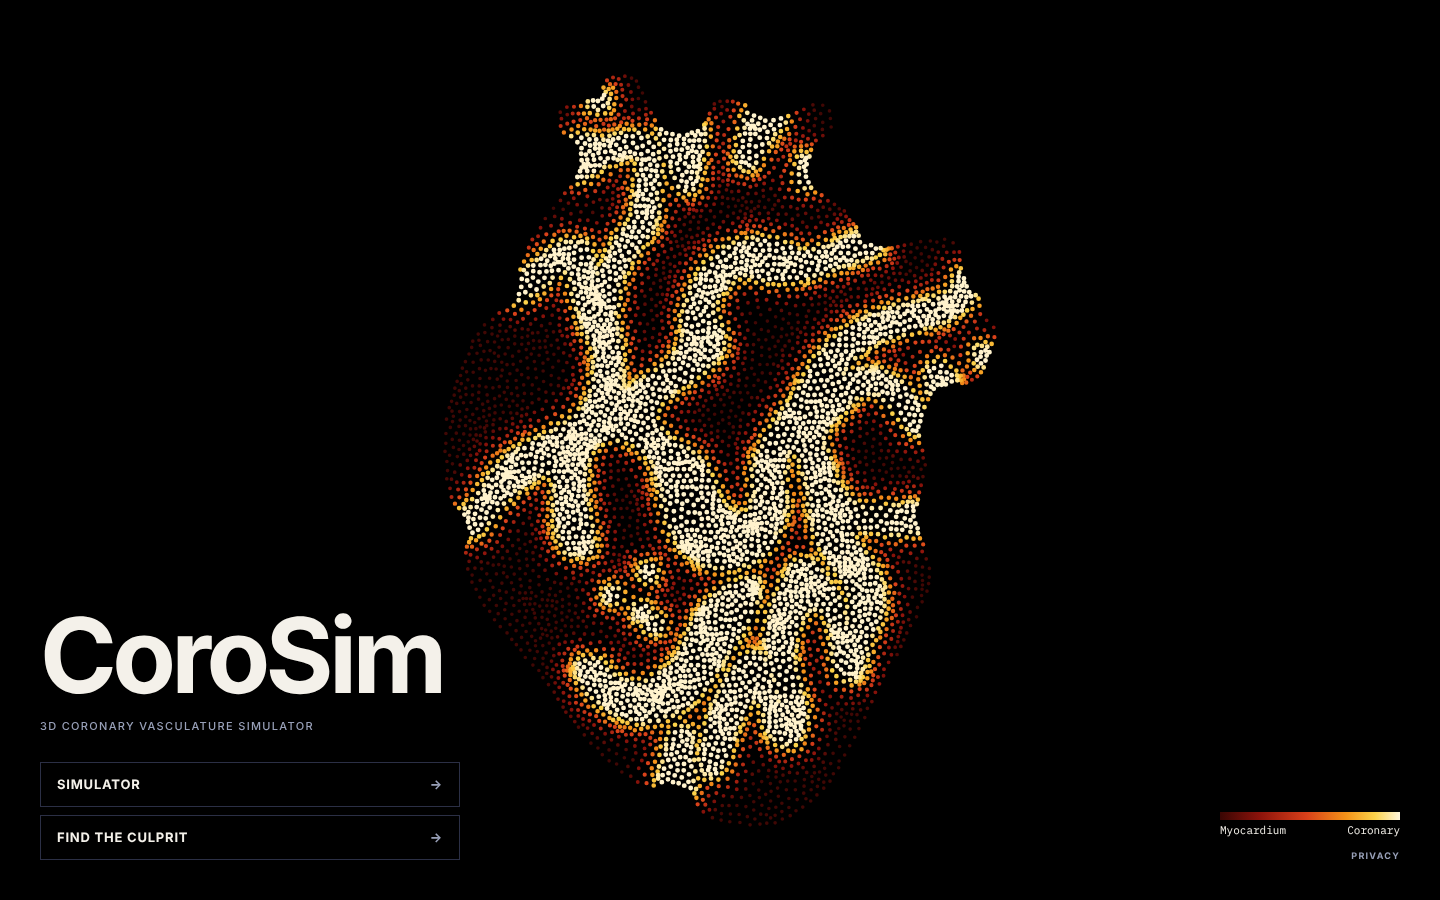
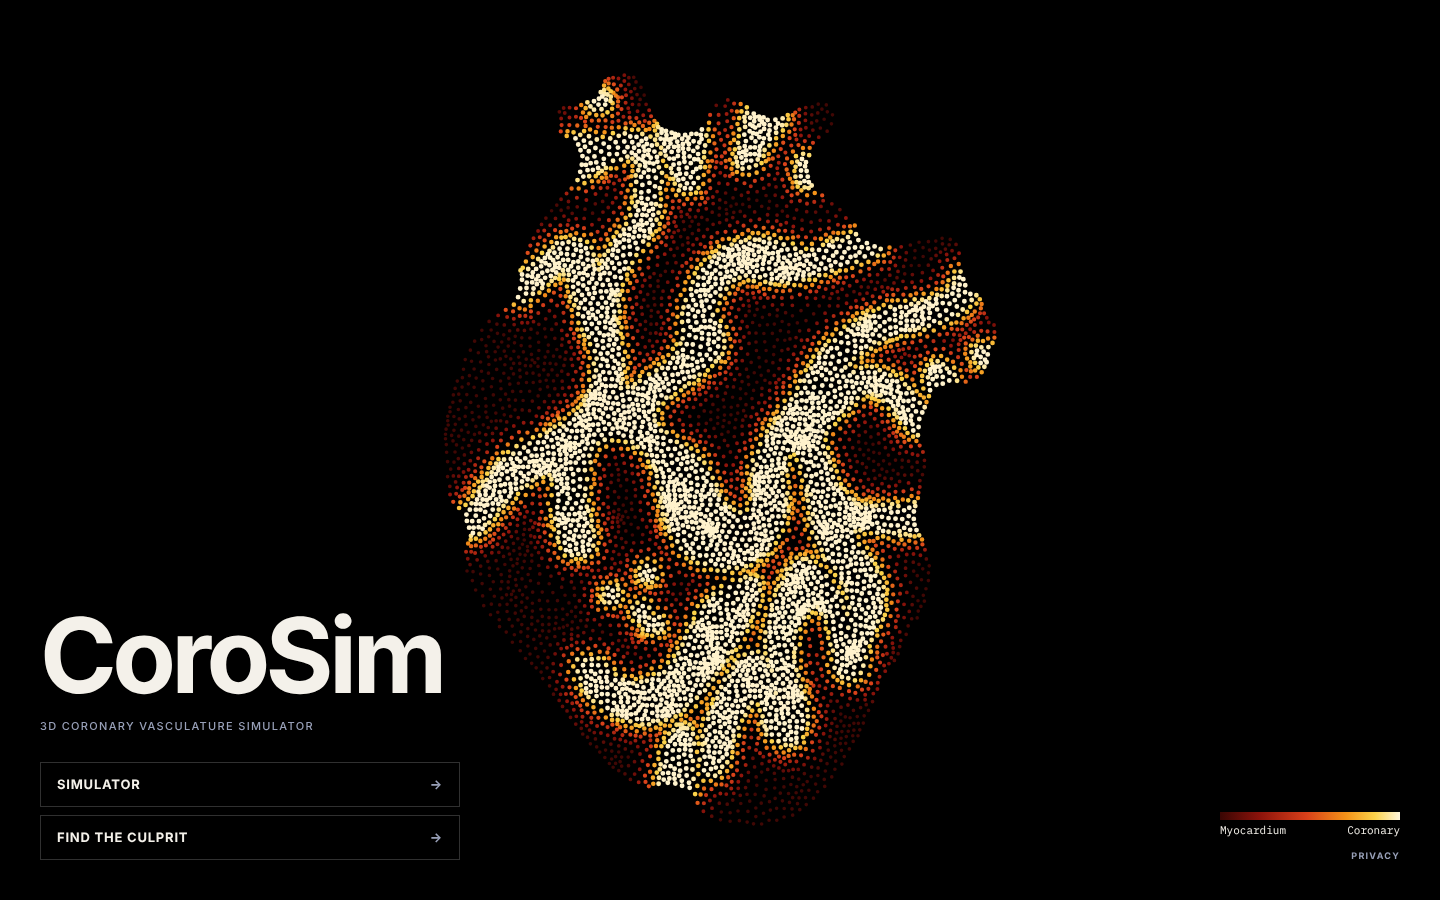
Sim and game share the homepage's look
One source of truth: the homepage's black ground and thermal ramp become the
shared tokens in style.css (dark --bg pure black, neutral --rule hairlines),
and a .on-black scope keeps that set in both themes for the homepage, the 3D
viewport and the game's front door. home.css inherits instead of overriding.
stipple.ts exports RAMP and RAMP_STOPS, so app.ts colors velocity and wall
shear stress with the homepage's ramp (in place of magma) and the legend uses
the same stops.

The accent comes from the ramp too: #d23d19, the ramp at 0.46, just under its
#d8401a stop, which reads 4.50:1 against white and misses AA for 12px bold by
a hair; #d23d19 gives 4.75:1. Sliders follow the accent.

The masthead is set like the homepage (64px title at -0.045em, the descriptor
under it in the uppercase muted style, the version switch as the homepage's
doors), the viewport is a flat black stage in both themes, and the game's
front door shows the stippled heart, settled once, behind a dark-glass card.

The two pages now import stipple.ts, so each is built on its own (vite build,
then vite build --mode home) to keep one script per page for
scripts/prepare-publish.mjs.

Screenshots of /, /sim/ (also in velocity mode) and /game/ (gate and case)
at desktop and phone width, dark and light, in docs/screenshots/.

Claude-Session: https://claude.ai/code/session_014YjVf19juRpyELeCx8Ds4A

Changed region(s): [[0.3125, 0.0622, 0.6875, 0.9333]]

diff --git a/src/style.css b/src/style.css
@@ -1,19 +1,21 @@
 /* Layout: an instrument console. The 3D heart and the 12-lead are the two working displays on the left;
    readouts and controls sit in a right-hand rail, monitor first. Scan-room black and bone, one hot-spot yellow,
    red and blue only where physiology goes wrong. Off-White structure: Helvetica Bold, quoted uppercase labels,
-   square hairline frames. The ECG is drawn on real paper in both themes. Dark is the default. */
-:root {
-  --bg: #05060a;          /* room */
+   square hairline frames. The ECG is drawn on real paper in both themes. Dark is the default.
+   One look across the site: the homepage's black ground and thermal ramp (RAMP in stipple.ts) are these tokens. The
+   dark set below is also the black stage: anything marked .on-black (the homepage, the 3D viewport, the game's front
+   door) keeps it in both themes, as the ECG keeps its paper. */
+:root, .on-black {
+  --bg: #000000;          /* room: pure black, the homepage's ground */
   --panel: #0b0d14;       /* console surfaces */
-  --stage: #000000;       /* behind the 3D heart */
-  --stage-2: #17181d;
+  --stage: #000000;       /* behind the 3D heart, in both themes */
   --ink: #f4f1ea;
   --muted: #98a0b8;
-  --rule: #2b2f45;
-  --rule-light: #1a1d2c;
-  --accent: #b8372e;      /* muted brick red: fills only, always with --accent-ink */
+  --rule: #303030;        /* neutral hairline on black */
+  --rule-light: #1c1c1c;
+  --accent: #d23d19;      /* the thermal ramp at 0.46, just under its #d8401a stop: fills only, always with --accent-ink (4.75:1) */
   --accent-ink: #ffffff;
-  --range: #d4574d;
+  --range: var(--accent);
   --link: #f4f1ea;
   --ok: #c9c6bd;
   --warn: #e0a447;
@@ -26,20 +28,22 @@
 }
 @media (prefers-color-scheme: light) {
   :root:not([data-theme="dark"]) {
-    --bg: #eeece6; --panel: #f7f5f0; --stage: #d9d6ce; --stage-2: #e6e4de;
+    --bg: #eeece6; --panel: #f7f5f0;
     --ink: #05060a; --muted: #5a5d6e; --rule: #05060a; --rule-light: #c4c1b9;
-    --range: #05060a; --link: #05060a;
+    --link: #05060a;
     --ok: #3a3a36; --warn: #8a5a00; --bad: #d1121b; --down: #1b3fd8; --bar-track: #dbd8d0;
     color-scheme: light;
   }
 }
 :root[data-theme="light"] {
-  --bg: #eeece6; --panel: #f7f5f0; --stage: #d9d6ce; --stage-2: #e6e4de;
+  --bg: #eeece6; --panel: #f7f5f0;
   --ink: #05060a; --muted: #5a5d6e; --rule: #05060a; --rule-light: #c4c1b9;
-  --range: #05060a; --link: #05060a;
+  --link: #05060a;
   --ok: #3a3a36; --warn: #8a5a00; --bad: #d1121b; --down: #1b3fd8; --bar-track: #dbd8d0;
   color-scheme: light;
 }
+
+.on-black { color: var(--ink); } /* the inherited text color was resolved against the theme's set */
 
 * { box-sizing: border-box; }
 html { background: var(--bg); }
@@ -53,15 +57,17 @@ body {
   font: 15px/1.5 var(--font-ui);
 }
 
-/* Masthead: the title, and the switch between the two versions */
+/* Masthead: the title, and the switch between the two versions, as the homepage sets them */
 .masthead { display: flex; flex-wrap: wrap; justify-content: space-between; align-items: flex-end; gap: 12px 24px; padding-block: 28px 18px; }
 .masthead { position: relative; border-bottom: 1px solid var(--rule); }
-.modes { display: flex; gap: 6px; }
-.modes a { padding: 8px 11px; font: 700 12px/1 var(--font-ui); letter-spacing: 0.04em; text-transform: uppercase; text-decoration: none; color: var(--ink); background: var(--panel); border: 1px solid var(--rule); }
-.modes a:hover { background: var(--ink); border-color: var(--ink); color: var(--bg); }
-.modes a.on, .modes a.on:hover { background: var(--accent); border-color: var(--accent); color: var(--accent-ink); }
+/* The switch as the homepage's doors: uppercase, a hairline square frame, a trailing arrow, inverted on hover */
+.modes { display: flex; flex-wrap: wrap; gap: 6px; }
+.modes a { display: flex; justify-content: space-between; align-items: center; gap: 12px; padding: 11px 13px; font: 700 12px/1 var(--font-ui); letter-spacing: 0.06em; text-transform: uppercase; text-decoration: none; color: var(--ink); border: 1px solid var(--rule); }
+.modes a::after { content: "→"; color: var(--muted); }
+.modes a:hover, .modes a:hover::after { background: var(--ink); border-color: var(--ink); color: var(--bg); }
+.modes a.on, .modes a.on:hover, .modes a.on::after { background: var(--accent); border-color: var(--accent); color: var(--accent-ink); }
 #quiz[hidden] { display: none; }
-.masthead h1 { margin: 0; font: 700 40px/1 var(--font-ui); letter-spacing: -0.03em; text-wrap: balance; }
+.masthead h1 { margin: 0; font: 700 clamp(40px, 6vw, 64px)/0.92 var(--font-ui); letter-spacing: -0.045em; text-wrap: balance; }
 
 /* Layout */
 main { display: grid; grid-template-columns: minmax(0, 1fr) 330px; gap: 24px; margin-top: 20px; align-items: start; }
@@ -79,7 +85,7 @@ main > section, aside { min-width: 0; display: grid; grid-template-columns: minm
 figure { margin: 0; padding: 12px; background: var(--panel); border: 1px solid var(--rule); border-radius: 0; min-width: 0; }
 figcaption { margin-top: 10px; font-size: 13px; line-height: 1.5; color: var(--muted); max-width: 72ch; }
 figcaption b { color: var(--ink); font-weight: 700; letter-spacing: 0.06em; text-transform: uppercase; }
-.viewport { position: relative; height: 580px; overflow: hidden; border-radius: 0; background: radial-gradient(ellipse at 50% 38%, var(--stage-2) 0%, var(--stage) 100%); }
+.viewport { position: relative; height: 580px; overflow: hidden; border-radius: 0; background: var(--stage); }
 .viewport canvas { display: block; width: 100%; height: 100%; }
 #tag { position: absolute; left: 10px; top: 8px; font: 12px var(--font-data); color: var(--muted); pointer-events: none; }
 #legend { position: absolute; left: 10px; bottom: 10px; width: 220px; font: 11px/1.3 var(--font-data); color: var(--ink); pointer-events: none; }
@@ -131,12 +137,12 @@ button:disabled, button:disabled:hover { color: var(--muted); background: var(--
 #quiz:not([data-phase="idle"]) .q-live, #quiz[data-phase="play"] .q-play, #quiz[data-phase="treat"] .q-treat, #quiz[data-phase="reveal"] .q-reveal { display: block; }
 #quiz:not([data-phase="idle"]) .row.q-live { display: flex; }
 
-/* The game's front door: a card over the blurred page */
-#qgate { position: fixed; inset: 0; z-index: 50; display: grid; place-items: center; padding: 20px; background: color-mix(in srgb, var(--bg) 55%, transparent); -webkit-backdrop-filter: blur(10px); backdrop-filter: blur(10px); }
+/* The game's front door: a card of dark glass over the stippled heart, on black in both themes, like the homepage */
+#qgate { position: fixed; inset: 0; z-index: 50; display: grid; place-items: center; padding: 20px; overflow-y: auto; background: var(--bg); }
 #qgate[hidden] { display: none; }
+#qgate .art { position: fixed; inset: 0; width: 100%; height: 100%; display: block; pointer-events: none; }
 body.gated { overflow: hidden; }
-@supports not (backdrop-filter: blur(1px)) { body.gated main, body.gated .masthead, body.gated .foot { filter: blur(8px); } }
-.q-card { width: min(460px, 100%); padding: 24px 24px 20px; background: var(--panel); border: 1px solid var(--ink); box-shadow: 0 24px 60px rgba(0, 0, 0, 0.35); }
+.q-card { position: relative; width: min(460px, 100%); padding: 24px 24px 20px; background: rgba(0, 0, 0, 0.62); border: 1px solid var(--rule); -webkit-backdrop-filter: blur(6px); backdrop-filter: blur(6px); }
 .q-card h2 { margin: 0 0 10px; font: 700 11px/1 var(--font-ui); letter-spacing: 0.12em; text-transform: uppercase; }
 .q-card p { margin: 0 0 12px; font-size: 14px; line-height: 1.5; }
 .q-card .q-day { font: 600 13px/1.5 var(--font-data); }
@@ -200,8 +206,8 @@ table.readout td#stup, table.readout td#stdown, table.readout td#rhythm { white-
 
 .masthead h1 { display: flex; flex-wrap: wrap; align-items: center; gap: 4px 14px; }
 .masthead .homelink { display: flex; flex: none; }
-.masthead .logo { width: 56px; height: 56px; flex: none; }
-.masthead .kind { font-size: 11px; font-weight: 500; letter-spacing: 0.12em; text-transform: uppercase; color: var(--muted); }
+.masthead .logo { width: clamp(44px, 5.5vw, 60px); height: auto; flex: none; }
+.masthead .kind { flex-basis: 100%; margin-top: 10px; font: 500 11px/1.5 var(--font-ui); letter-spacing: 0.12em; text-transform: uppercase; color: var(--muted); }
 
 /* Floating markers, positioned over the lesion and over the player's call by app.ts */
 #lesion, #call { position: absolute; left: 0; top: 0; pointer-events: none; z-index: 2; will-change: transform; transition: opacity .15s; }
@@ -295,7 +301,7 @@ details.fold > :not(summary):last-child { margin-bottom: 16px; }
 
 /* Connect your AI: the masthead button and its panel */
 .mast-right { display: flex; flex-wrap: wrap; align-items: center; gap: 6px; }
-.aibtn { display: inline-flex; align-items: center; gap: 7px; padding: 8px 11px; font: 700 12px/1 var(--font-ui); letter-spacing: 0.04em; text-transform: uppercase; color: var(--ink); background: var(--panel); border: 1px solid var(--rule); cursor: pointer; }
+.aibtn { display: inline-flex; align-items: center; gap: 7px; padding: 11px 13px; font: 700 12px/1 var(--font-ui); letter-spacing: 0.04em; text-transform: uppercase; color: var(--ink); background: var(--panel); border: 1px solid var(--rule); cursor: pointer; }
 .aibtn:hover, .aibtn[aria-expanded="true"] { background: var(--ink); border-color: var(--ink); color: var(--bg); }
 .aibtn .dot { width: 8px; height: 8px; border-radius: 50%; background: var(--muted); flex: none; }
 .aibtn.wait .dot { background: var(--warn); } .aibtn.live .dot { background: var(--ok); box-shadow: 0 0 0 3px color-mix(in srgb, var(--ok) 30%, transparent); }

diff --git a/src/app.ts b/src/app.ts
@@ -21,6 +21,8 @@ import { Scenario, LesionSpec } from "./sim/scenario";
 import { encodeScenario, decodeScenario } from "./sim/llm";
 import { TOOLS } from "./mcp/tools";
 import { Account, LiveLink, LiveStatus } from "./live";
+import { RAMP_STOPS, thermalGradient } from "./stipple";
+import { gateArt } from "./gateArt";
 import { Case, MAX_SCORE, POINTS, Point, TREAT, TreatRecord, TreatScore, dailyCase, dayKey, dayNumber, explain, explainTreatment, fullFindings, judge, keyOfDay, muscleSaved, parseDay, rvInvolvement, score, streaks, treatScore } from "./game";
 
 const $ = <T extends HTMLElement>(id: string) => document.getElementById(id) as T;
@@ -75,8 +77,17 @@ const heartGroup = new THREE.Group(); scene.add(heartGroup);
 const hash = (s: string) => { let h = 2166136261; for (const c of s) h = Math.imul(h ^ c.charCodeAt(0), 16777619); return ((h >>> 0) % 10000) / 10000; };
 const smooth = (t: number) => { t = Math.min(1, Math.max(0, t)); return t * t * (3 - 2 * t); };
 const v3 = (p: V3) => new THREE.Vector3(p[0], p[1], p[2]);
-const VIRIDIS = ["#440154", "#3b528b", "#21908d", "#5dc863", "#fde725"], MAGMA = ["#000004", "#51127c", "#b73779", "#fc8961", "#fcfdbf"];
-const ramp = (stops: string[], t: number) => { t = Math.min(1, Math.max(0, t)) * (stops.length - 1); const k = Math.min(stops.length - 2, Math.floor(t)); return new THREE.Color(stops[k]).lerp(new THREE.Color(stops[k + 1]), t - k); };
+// Sequential maps as [position, color] stops: viridis (evenly spaced) for pressure, the homepage's thermal ramp for
+// velocity and wall shear stress.
+type Stops = [number, THREE.ColorRepresentation][];
+const VIRIDIS: Stops = ["#440154", "#3b528b", "#21908d", "#5dc863", "#fde725"].map((c, i, a) => [i / (a.length - 1), c]), THERMAL: Stops = RAMP_STOPS;
+const ramp = (stops: Stops, t: number) => {
+  t = Math.min(1, Math.max(0, t));
+  let k = 0;
+  while (k < stops.length - 2 && t > stops[k + 1][0]) k++;
+  const [t0, c0] = stops[k], [t1, c1] = stops[k + 1];
+  return new THREE.Color(c0).lerp(new THREE.Color(c1), (t - t0) / (t1 - t0));
+};
 const lg = (v: number, lo: number, hi: number) => (Math.log10(Math.max(v, lo)) - Math.log10(lo)) / (Math.log10(hi) - Math.log10(lo));
 const GROUP_COLOR: Record<string, number> = { LAD: 0x1f5fa8, LCx: 0x2e7d4f, RCA: 0xc77c00 };
 const ARTERY = new THREE.Color(0xc2392f), ARTERY_DEEP = new THREE.Color(0x8a221d), GRAY = new THREE.Color(0x9a9a9a);
@@ -247,8 +258,8 @@ function shapeVessels() {
       else if (S.mode === "anat") c.setHex(GROUP_COLOR[b.seg.group]);
       else if (blocked) c.copy(GRAY);
       else if (S.mode === "pressure") c.copy(ramp(VIRIDIS, (r.P[i] / MMHG - 20) / 70));
-      else if (S.mode === "velocity") c.copy(ramp(MAGMA, lg(r.v[i], 0.01, 4)));
-      else c.copy(ramp(MAGMA, lg(r.wss[i], 0.1, 1000)));
+      else if (S.mode === "velocity") c.copy(ramp(THERMAL, lg(r.v[i], 0.01, 4)));
+      else c.copy(ramp(THERMAL, lg(r.wss[i], 0.1, 1000)));
       if (S.selected === b.seg.id) c.lerp(new THREE.Color(0xffffff), 0.35);
       for (let j = 0; j <= M; j++) {
         const th = (j / M) * Math.PI * 2, cs = Math.cos(th) * R, sn = Math.sin(th) * R, o = i * (M + 1) + j;
@@ -267,9 +278,9 @@ function legend() {
   const set = (g: string, a: string, m: string, z: string) => { bar.style.background = g; $("l0").textContent = a; $("lmid").textContent = m; $("l1").textContent = z; };
   if (S.mode === "real") set("linear-gradient(90deg,#8e3a33 0 50%,#4e3a5a 50%)", "Myocardium", "", "Ischemic");
   else if (S.mode === "anat") set("linear-gradient(90deg,#1f5fa8 0 33%,#2e7d4f 33% 66%,#c77c00 66%)", "LAD", "Circumflex", "RCA");
-  else if (S.mode === "pressure") set(`linear-gradient(90deg,${VIRIDIS.join(",")})`, "20 mmHg", "55", "90 mmHg");
-  else if (S.mode === "velocity") set(`linear-gradient(90deg,${MAGMA.join(",")})`, "0.01 m/s", "log", "4 m/s");
-  else set(`linear-gradient(90deg,${MAGMA.join(",")})`, "0.1 Pa", "log", "1000 Pa");
+  else if (S.mode === "pressure") set(`linear-gradient(90deg,${VIRIDIS.map(([, c]) => c).join(",")})`, "20 mmHg", "55", "90 mmHg");
+  else if (S.mode === "velocity") set(thermalGradient(), "0.01 m/s", "log", "4 m/s");
+  else set(thermalGradient(), "0.1 Pa", "log", "1000 Pa");
 }
 
 // ---------------------------------------------------------------- blood flow particles
@@ -867,10 +878,13 @@ function gameQuit() {
   controlsUi(); liveUi();
 }
 let inGame = false; // the page at /game
+const showGateArt = gateArt($("qart"), document.querySelector(".masthead .logo") as HTMLImageElement);
 function gameUi() {
   $("quiz").dataset.phase = G.phase; document.body.dataset.game = G.phase;
-  // idle: the front door over the blurred page; in a case: the panel in the rail
-  $("qgate").hidden = !(inGame && G.phase === "idle"); $("quiz").hidden = !(inGame && G.phase !== "idle");
+  // idle: the front door over the stippled heart; in a case: the panel in the rail
+  const gate = $("qgate"), opening = gate.hidden && inGame && G.phase === "idle";
+  gate.hidden = !(inGame && G.phase === "idle"); $("quiz").hidden = !(inGame && G.phase !== "idle");
+  if (opening) showGateArt();
   document.body.classList.toggle("gated", inGame && G.phase === "idle");
   if (G.phase === "idle") {
     const today = dayKey(), key = G.target || today, n = dayNumber(key), archive = key !== today, p = history[key];

diff --git a/src/gateArt.ts b/src/gateArt.ts
@@ -1,0 +1,56 @@
+// The game's front door: the homepage's stippled heart behind the card. It settles once (drawn out over about a second,
+// or all at once under reduced motion) and then stands still: no cursor stirring, since the card is what is clicked.
+import { Placement, Stipple, draw, fieldFromLogo } from "./stipple";
+
+const MAX_STEPS = 90, SETTLED = 0.05, OMEGA = 0.5; // as on the homepage (home.ts)
+
+/** The heart for `canvas`, stippled from `logo`. Returns `show`, to call whenever the canvas comes into view: the first
+ *  call builds and settles the dots, later ones redraw them at the current size and finish any settling left over. */
+export function gateArt(canvas: HTMLCanvasElement, logo: HTMLImageElement): () => void {
+  const reduced = matchMedia("(prefers-reduced-motion: reduce)").matches;
+  const shown = () => !canvas.closest("[hidden]");
+  let st: Stipple | null = null, running = false, settled = false;
+  const ctx = canvas.getContext("2d")!;
+  /** The heart centered behind the card: most of the height on a wide screen, most of the width on a tall one. */
+  const paint = () => {
+    if (!st) return;
+    const dpr = Math.min(devicePixelRatio || 1, 2), w = Math.round(innerWidth * dpr), h = Math.round(innerHeight * dpr);
+    if (canvas.width !== w || canvas.height !== h) { canvas.width = w; canvas.height = h; }
+    const b = st.field.box, bw = b.x1 - b.x0, bh = b.y1 - b.y0, tall = innerHeight > innerWidth;
+    const s = Math.min((tall ? 0.7 : 0.88) * h / bh, 0.94 * w / bw);
+    const at: Placement = { s, ox: w / 2 - ((b.x0 + b.x1) / 2) * s, oy: h / 2 - ((b.y0 + b.y1) / 2) * s };
+    draw(ctx, st, w, h, at, 0.95);
+  };
+  const step = (omega: number) => { settled = st!.step(omega) < SETTLED || st!.iterations >= MAX_STEPS; };
+  // Animated: a partial Lloyd step a frame, drawn, until settled or the gate closes (show() picks it up again).
+  const frame = () => {
+    if (!shown()) { running = false; return; }
+    step(OMEGA); paint();
+    if (settled) running = false; else requestAnimationFrame(frame);
+  };
+  // Reduced motion: relax in chunks that leave the page responsive, and draw once, settled.
+  const chunk = () => {
+    const t0 = performance.now();
+    while (!settled && performance.now() - t0 < 24) step(1);
+    if (settled) { running = false; paint(); } else requestAnimationFrame(chunk);
+  };
+  const resume = () => {
+    if (settled || !reduced) paint();
+    if (settled || running) return;
+    running = true;
+    requestAnimationFrame(reduced ? chunk : frame);
+  };
+  let started = false;
+  addEventListener("resize", () => { if (shown()) paint(); });
+  return () => {
+    if (started) return resume();
+    started = true;
+    logo.decode().then(() => {
+      // The point budget follows the screen, as on the homepage: about 3 500 dots on a phone, 7 000 on a desktop.
+      const short = Math.min(innerWidth, innerHeight) || 360;
+      const n = short < 480 ? 320 : 400;
+      st = new Stipple(fieldFromLogo(logo, n), Math.round(Math.min(7000, Math.max(3000, short * 9))));
+      if (shown()) resume();
+    }).catch(() => {}); // without the logo the door is plain black
+  };
+}

diff --git a/vite.config.ts b/vite.config.ts
@@ -21,11 +21,19 @@ const gamePage = (): Plugin => ({
 });
 
 // Relative asset paths so the built site works when published under any URL.
-export default defineConfig({
-  base: "./",
-  plugins: [gamePage()],
-  // No module-preload polyfill: with two pages sharing style.css it would become a third chunk both bundles import,
-  // which scripts/prepare-publish.mjs (one script beside one page) could not carry.
-  build: { modulePreload: { polyfill: false }, rollupOptions: { input: { home: "index.html", sim: "sim/index.html" } } },
-  test: { include: ["tests/**/*.test.ts"] },
+// Each page is its own build (`vite build`, then `vite build --mode home` into the same dist): both import stipple.ts,
+// and built together it would become a third chunk both bundles import, which scripts/prepare-publish.mjs (one script
+// beside one page) could not carry. No module-preload polyfill, for the same reason.
+export default defineConfig(({ mode }) => {
+  const home = mode === "home";
+  return {
+    base: "./",
+    plugins: home ? [] : [gamePage()],
+    build: {
+      modulePreload: { polyfill: false },
+      emptyOutDir: !home, // the homepage lands beside the simulator
+      rollupOptions: { input: home ? { home: "index.html" } : { sim: "sim/index.html" } },
+    },
+    test: { include: ["tests/**/*.test.ts"] },
+  };
 });

diff --git a/src/home.css b/src/home.css
@@ -1,8 +1,9 @@
 /* The homepage: the thermogram is the page. The heart, stippled and thermally colored, fills the viewport on a black
    screen in both themes (as the ECG is drawn on paper in both), and the title, the two doors and the legend are laid
-   over it. Type and hairlines are the site's own (style.css); the only color is the thermal ramp. */
-body.home { --bg: #000; --panel: #0b0d14; --ink: #f4f1ea; --muted: #98a0b8; --rule: #2b2f45; --link: #f4f1ea; max-width: none; min-height: 100dvh; padding: 0; background: #000; color: var(--ink); overflow: hidden; }
-.art { position: fixed; inset: 0; width: 100%; height: 100%; display: block; background: #000; }
+   over it. Ground, type and hairlines are the site's own (style.css: the body is .on-black, so it keeps the dark set in
+   both themes); the only color is the thermal ramp. */
+body.home { max-width: none; min-height: 100dvh; padding: 0; overflow: hidden; }
+.art { position: fixed; inset: 0; width: 100%; height: 100%; display: block; background: var(--bg); }
 @media (hover: hover) { .art { cursor: crosshair; } }
 
 /* The overlay lets the pointer through to the dots everywhere but on the links. */

diff --git a/src/stipple.ts b/src/stipple.ts
@@ -65,8 +65,11 @@ export function fieldFromLogo(img: HTMLImageElement, n: number, closing = 0.03, 
   return { n, rho, heat, box };
 }
 
-/** Thermal ramp, black-body style. The black end is the ground itself: the coldest dot is still a deep red. */
-const RAMP: [number, string][] = [[0, "#3a0603"], [0.22, "#8c130b"], [0.48, "#d8401a"], [0.7, "#f49218"], [0.86, "#fbd24a"], [1, "#fff6dc"]];
+/** Thermal ramp, black-body style. The black end is the ground itself: the coldest dot is still a deep red. The site's
+ *  one sequential map: the homepage's dots, the simulator's velocity and wall-shear colormaps, and the accent. */
+export const RAMP: [number, string][] = [[0, "#3a0603"], [0.22, "#8c130b"], [0.48, "#d8401a"], [0.7, "#f49218"], [0.86, "#fbd24a"], [1, "#fff6dc"]];
+/** The same stops as [position, 0xRRGGBB], ready for THREE.Color. */
+export const RAMP_STOPS: [number, number][] = RAMP.map(([t, c]) => [t, parseInt(c.slice(1), 16)]);
 const hex = (s: string) => [1, 3, 5].map((i) => parseInt(s.slice(i, i + 2), 16));
 export function thermal(t: number): string {
   t = Math.min(1, Math.max(0, t));

diff --git a/tests/stipple.test.ts b/tests/stipple.test.ts
@@ -1,0 +1,24 @@
+import { describe, expect, it } from "vitest";
+import { RAMP, RAMP_STOPS, thermal, thermalGradient } from "../src/stipple";
+
+// Relative luminance (WCAG) of an sRGB color given as 0..255 channels.
+const lum = ([r, g, b]: number[]) => {
+  const lin = (v: number) => { v /= 255; return v <= 0.04045 ? v / 12.92 : ((v + 0.055) / 1.055) ** 2.4; };
+  return 0.2126 * lin(r) + 0.7152 * lin(g) + 0.0722 * lin(b);
+};
+const rgb = (s: string) => s.match(/\d+/g)!.map(Number);
+
+describe("thermal ramp", () => {
+  it("is a sequential map: luminance rises monotonically from cold to hot", () => {
+    let last = -1;
+    for (let i = 0; i <= 100; i++) {
+      const l = lum(rgb(thermal(i / 100)));
+      expect(l).toBeGreaterThanOrEqual(last);
+      last = l;
+    }
+  });
+  it("exports the same stops for THREE and for the CSS legend", () => {
+    expect(RAMP_STOPS.map(([t, c]) => [t, "#" + c.toString(16).padStart(6, "0")])).toEqual(RAMP);
+    for (const [, c] of RAMP) expect(thermalGradient()).toContain(c);
+  });
+});

diff --git a/sim/index.html b/sim/index.html
@@ -59,7 +59,7 @@
 <main>
   <section>
     <figure>
-      <div id="view" class="viewport">
+      <div id="view" class="viewport on-black">
         <div id="tag"></div>
         <div id="pick"></div>
         <div id="legend"><div id="bar"></div><div class="lg"><span id="l0"></span><span id="lmid"></span><span id="l1"></span></div></div>
@@ -281,8 +281,9 @@
     </details>
   </aside>
 </main>
-<!-- The game's front door: over the blurred page until a case starts -->
-<div id="qgate" hidden>
+<!-- The game's front door: over the stippled heart, on black, until a case starts -->
+<div id="qgate" class="on-black" hidden>
+  <canvas id="qart" class="art" aria-hidden="true"></canvas>
   <div class="q-card">
     <h2>Find the culprit</h2>
     <p class="q-day" id="qday"></p>

diff --git a/index.html b/index.html
@@ -18,7 +18,7 @@ if (/^#s=/.test(location.hash)) location.replace("sim/" + location.hash);
 <link rel="stylesheet" href="/src/style.css">
 <link rel="stylesheet" href="/src/home.css">
 </head>
-<body class="home">
+<body class="home on-black">
 <canvas id="art" class="art" aria-label="The heart as a thermogram: stippled, its coronary arteries hot against the muscle"></canvas>
 <main class="home-main">
   <header class="home-head">
